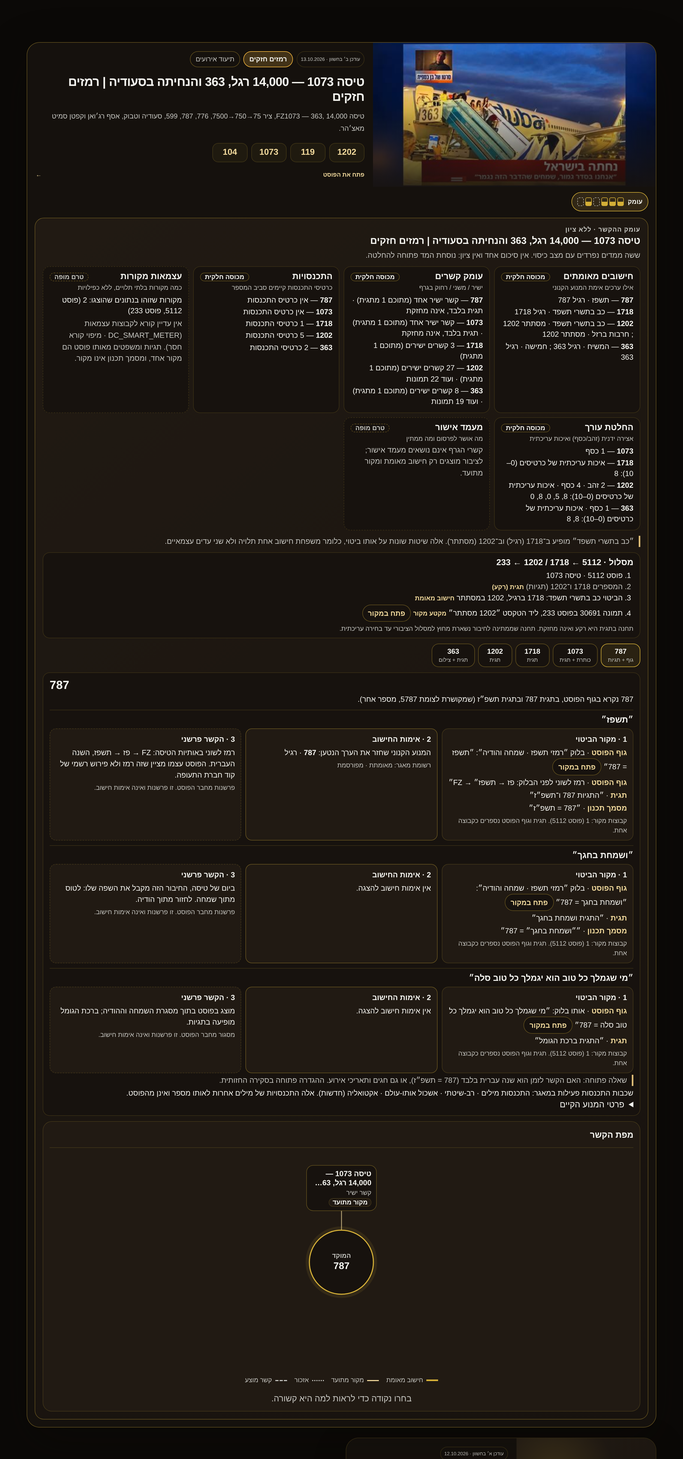
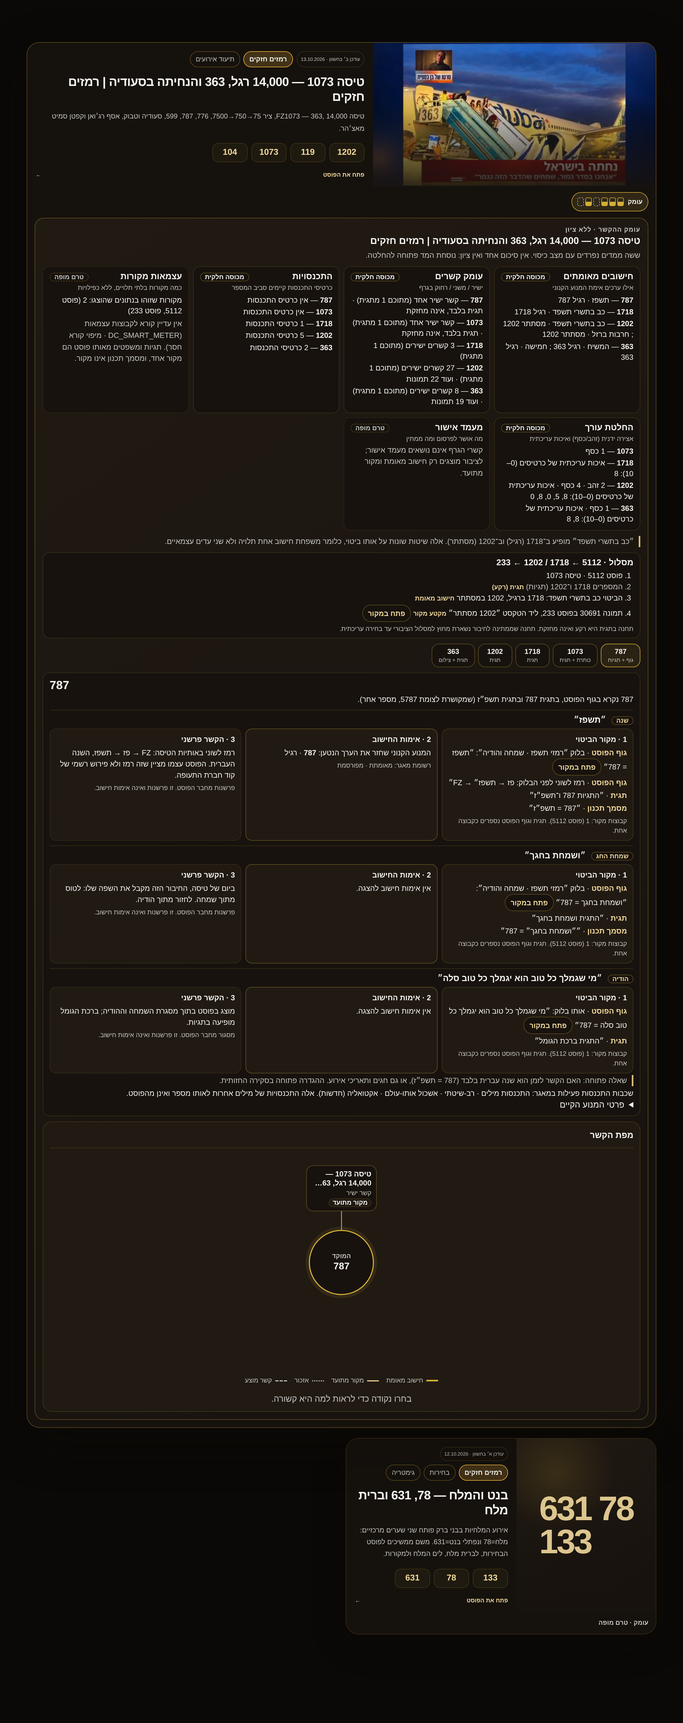
feat(context-depth): year hint from the existing approval owner, per reviewed unit
- Year hint (DEC-TIME-004) keyed by a reviewed UNIT (source_ref + container), not by a
  number, tag or WordPress structure; works the same for post regions, images, video
  and research units. timeFlow supplies the live Hebrew year; no new engine or reader.
- Approval is read from the existing research_objects owner (approved/canonical
  relation that relates to the container and names the unit's layers; published only
  when privacy_scope is public). The real row for 5112 is approved but public_candidate,
  so the public sees no marker; the admin preview shows it as approved-unpublished.
- 787 branch shows year, holiday joy and gratitude as three layers of one unit, with row
  attribution kept apart from publication; the marker is separate from the six strips.
- Rollover תשפ״ו→תשפ״ז→תשפ״ח moves the marker to a year group; sources and
  calculations are untouched. Opening a region puts its focus into the Research Context.

Claude-Session: https://claude.ai/code/session_01PjQC67fTYkRsbVSwpjWPZT

diff --git a/test/fixtures/context-map-harness/depthFixture.js b/test/fixtures/context-map-harness/depthFixture.js
@@ -1,3 +1,4 @@
+import { postLocatorSpec, yearHintOf } from "../../../src/lib/research/worldSourceConnections.js";
 // Evidence for post 5112, read read-only from canonical Supabase (linswmnnkjxvweumprav) on 19.10.2026:
 // - edges of the post node f42e2a16…: 28, all `documents` via post_tags (numbers 787, 1073, 1202, 1718, 363, …)
 // - convergence_meter(787|1073|1718|1202|363): layers, cards, tiers (existing function, formula untouched)
@@ -12,23 +13,23 @@ export const POST_5112 = { id: "5112", type: "post", label: "טיסה 1073 — 1
 export const NUMBERS_5112 = [
   { value: 787, source: { kind: "גוף + תגיות", note: "787 נקרא בגוף הפוסט, בתגית 787 ובתגית תשפ״ז (שמקושרת לצומת 5787, מספר אחר)." },
     expressions: [
-      { phrase: "תשפז",
-        sources: [{ kind: "post_body", ref: "post:5112", locator: "בלוק ״רמזי תשפז · שמחה והודיה״", quote: "תשפז = 787", locatorId: "plane-787-year-joy", href: "/post/flydubai-fz1073-363-14000-remzei-geula#source-locator-plane-787-year-joy" },
+      { phrase: "תשפז", theme: "year",
+        sources: [{ kind: "post_body", ref: "post:5112", locator: "בלוק ״רמזי תשפז · שמחה והודיה״", quote: "תשפז = 787", sourceRef: "posts:5112#block:plane-787-year-joy", locatorId: "plane-787-year-joy", href: "/post/flydubai-fz1073-363-14000-remzei-geula#source-locator-plane-787-year-joy" },
           { kind: "post_body", ref: "post:5112", locator: "רמז לשוני לפני הבלוק", quote: "FZ → פז → תשפז" },
           { kind: "tag", ref: "post:5112", quote: "התגיות 787 ו־תשפ״ז" },
           { kind: "plan_doc", ref: "docs/2029-eight-visual-review-handoff.md:447", quote: "787 = תשפ״ז" }],
-        calculation: { method: "רגיל", value: 787, claimedValue: 787, reproducesClaim: true, rowVerified: true, rowPublished: true },
+        calculation: { method: "רגיל", value: 787, claimedValue: 787, reproducesClaim: true, rowVerified: true, rowPublished: true, rowAttribution: "ZURIEL Human Gate · 2026-09-18" },
         interpretation: { text: "רמז לשוני באותיות הטיסה: FZ → פז → תשפז, השנה העברית. הפוסט עצמו מציין שזה רמז ולא פירוש רשמי של קוד חברת התעופה.", attestedBy: "פרשנות מחבר הפוסט" } },
-      { phrase: "ושמחת בחגך",
-        sources: [{ kind: "post_body", ref: "post:5112", locator: "בלוק ״רמזי תשפז · שמחה והודיה״", quote: "ושמחת בחגך = 787", locatorId: "plane-787-year-joy", href: "/post/flydubai-fz1073-363-14000-remzei-geula#source-locator-plane-787-year-joy" },
+      { phrase: "ושמחת בחגך", theme: "holiday",
+        sources: [{ kind: "post_body", ref: "post:5112", locator: "בלוק ״רמזי תשפז · שמחה והודיה״", quote: "ושמחת בחגך = 787", sourceRef: "posts:5112#block:plane-787-year-joy", locatorId: "plane-787-year-joy", href: "/post/flydubai-fz1073-363-14000-remzei-geula#source-locator-plane-787-year-joy" },
           { kind: "tag", ref: "post:5112", quote: "התגית ושמחת בחגך" },
           { kind: "plan_doc", ref: "docs/2029-eight-visual-review-handoff.md:447", quote: "״ושמחת בחגך״ = 787" }],
-        calculation: { method: "רגיל", value: 787, claimedValue: 787, reproducesClaim: true, rowVerified: true, rowPublished: false },
+        calculation: { method: "רגיל", value: 787, claimedValue: 787, reproducesClaim: true, rowVerified: true, rowPublished: false, rowAttribution: "contribution:אבני רונן" },
         interpretation: { text: "ביום של טיסה, החיבור הזה מקבל את השפה שלו: לטוס מתוך שמחה. לחזור מתוך הודיה.", attestedBy: "פרשנות מחבר הפוסט" } },
-      { phrase: "מי שגמלך כל טוב הוא יגמלך כל טוב סלה",
-        sources: [{ kind: "post_body", ref: "post:5112", locator: "אותו בלוק", quote: "מי שגמלך כל טוב הוא יגמלך כל טוב סלה = 787", locatorId: "plane-787-year-joy", href: "/post/flydubai-fz1073-363-14000-remzei-geula#source-locator-plane-787-year-joy" },
+      { phrase: "מי שגמלך כל טוב הוא יגמלך כל טוב סלה", theme: "gratitude",
+        sources: [{ kind: "post_body", ref: "post:5112", locator: "אותו בלוק", quote: "מי שגמלך כל טוב הוא יגמלך כל טוב סלה = 787", sourceRef: "posts:5112#block:plane-787-year-joy", locatorId: "plane-787-year-joy", href: "/post/flydubai-fz1073-363-14000-remzei-geula#source-locator-plane-787-year-joy" },
           { kind: "tag", ref: "post:5112", quote: "התגית ברכת הגומל" }],
-        calculation: { method: "רגיל", value: 787, claimedValue: 787, reproducesClaim: true, rowVerified: false, rowPublished: false },
+        calculation: { method: "רגיל", value: 787, claimedValue: 787, reproducesClaim: true, rowVerified: false, rowPublished: false, rowAttribution: "ZURIEL Human Gate · 2026-09-30" },
         interpretation: { text: "מוצג בפוסט בתוך מסגרת השמחה וההודיה; ברכת הגומל מופיעה בתגיות.", attestedBy: "מסגור מחבר הפוסט" } },
     ],
     openQuestions: [{ text: "האם הקשר לזמן הוא שנה עברית בלבד (787 = תשפ״ז), או גם חגים ותאריכי אירוע. ההגדרה פתוחה בסקירה החזותית.", ref: "docs/2029-eight-visual-review-handoff.md:430" }], graph: { direct: 1, tagDerived: 1, media: 0 }, calculations: [],
@@ -37,14 +38,14 @@ export const NUMBERS_5112 = [
     convergence: { layers: [L("ישות מסומנת", "1 כסף")], cards: [], tiers: { gold: 0, silver: 1 }, existingMeter: 11 } },
   { value: 1718, source: { kind: "תגית", note: "תגית בפוסט; הביטוי כב בתשרי תשפד נקרא בפוסט 233, ליד תמונה 30691." }, graph: { direct: 3, tagDerived: 1, media: 0 },
     expressions: [{ phrase: "כב בתשרי תשפד",
-      sources: [{ kind: "post_body", ref: "post:233", locator: "תמונה 30691 עם הטקסט ״1202 מסתתר״ שלפניה", quote: "כב בתשרי תשפד", locatorId: "kotel-233-date-image", href: HREF_233 },
+      sources: [{ kind: "post_body", ref: "post:233", locator: "תמונה 30691 עם הטקסט ״1202 מסתתר״ שלפניה", quote: "כב בתשרי תשפד", sourceRef: "posts:233#image:kotel-233-date-image", locatorId: "kotel-233-date-image", href: HREF_233 },
         { kind: "tag", ref: "post:5112", quote: "התגית 1718 בפוסט 5112" }],
       calculation: { method: "רגיל", value: 1718, claimedValue: 1718, reproducesClaim: true, rowVerified: true, rowPublished: true },
       interpretation: { text: "תאריך שמחת תורה, כ״ב בתשרי תשפ״ד, מוצג בפוסט 233 כחלק מרמזי המלחמה.", attestedBy: "פרשנות מחבר הפוסט" } }],
     convergence: { layers: [L("התכנסות מילים", "2 ישויות"), L("אקטואליה (חדשות)", "1"), L("כרטיס התכנסות", "קיים")], cards: [{ slug: "gapfill-718", title: "718 — שביעי באוקטובר", quality: 8 }], tiers: { gold: 0, silver: 0 }, existingMeter: 33 } },
   { value: 1202, source: { kind: "תגית", note: "תגית בפוסט; אותו ערך מתקבל מאותו ביטוי בשיטה אחרת (מסתתר)." }, graph: { direct: 27, tagDerived: 1, media: 22 },
     expressions: [
-      { phrase: "כב בתשרי תשפד", sources: [{ kind: "post_body", ref: "post:233", locator: "הטקסט ״1202 מסתתר״ ליד תמונה 30691", quote: "1202 מסתתר", locatorId: "kotel-233-date-image", href: HREF_233 }],
+      { phrase: "כב בתשרי תשפד", sources: [{ kind: "post_body", ref: "post:233", locator: "הטקסט ״1202 מסתתר״ ליד תמונה 30691", quote: "1202 מסתתר", sourceRef: "posts:233#image:kotel-233-date-image", locatorId: "kotel-233-date-image", href: HREF_233 }],
         calculation: { method: "מסתתר", value: 1202, claimedValue: 1202, reproducesClaim: true, rowVerified: true, rowPublished: true },
         interpretation: { text: "אותו ביטוי כמו ב־1718, בשיטה אחרת.", attestedBy: "פרשנות מחבר הפוסט" } },
       { phrase: "חרבות ברזל", sources: [{ kind: "post_link", ref: "post:233", quote: "הביטוי מקושר לפוסט 233 במאגר" }],
@@ -87,13 +88,18 @@ export const ENGINE_BY_LABEL = { "כב בתשרי תשפד": { value: 1718, meth
 
 // Year hint (DEC-TIME-004), reviewed locator and route for the 5112 → 1718 / 1202 → 233 branch. `editorialSelection: null`
 // = the editor has not selected the connection yet, so the public sees no year badge and no pending station.
-export const YEAR_HINTS_5112 = [{ id: "plane-787-year-joy", value: 787, hebrewYear: 5787, yearLabel: "תשפ״ז", expression: "תשפז",
-  link: "explicit_documented", editorialSelection: null, locatorId: "plane-787-year-joy" }];
+export const YEAR_HINTS_5112 = [yearHintOf(postLocatorSpec("plane-787-year-joy"))];
+// The existing approval owner (research_objects): the REAL approved relation naming the 787 axis of תשפ״ז / ושמחת בחגך /
+// the gomel answer (id db28c232…, read 20.10.2026). Only the fields the matcher needs; its privacy_scope is public_candidate,
+// i.e. editorially approved and NOT published. No free text or author of the record is copied here.
+export const APPROVAL_ROW_5112 = { id: "db28c232-c35c-4aa6-84a8-a37cce875c2c", kind: "relation", status: "approved", privacy_scope: "public_candidate",
+  relates: ["research_object:c00fc2e0-4f87-4285-b6af-b9174c1d0b0a", "research_object:a94e47c3-0ca1-43c0-96f4-fbc2ddfe1189", "post:5112", "code:7500"],
+  terms: ["75", "750", "7500", "776", "787", "599", "בטחון", "ביאת המשיח", "תשפ\"ז", "ושמחת בחגך", "אלופו של עולם", "אסתר"] };
 export const PATHS_5112 = [{ id: "5112-1718-233", label: "5112 ← 1718 / 1202 ← 233", stations: [
   { kind: "post", label: "פוסט 5112 · טיסה 1073" },
   { kind: "number", label: "המספרים 1718 ו־1202 (תגיות)", basis: "tag" },
   { kind: "expression", label: "הביטוי כב בתשרי תשפד: 1718 ברגיל, 1202 במסתתר", basis: "verified_calculation" },
-  { kind: "source_region", label: "תמונה 30691 בפוסט 233, ליד הטקסט ״1202 מסתתר״", basis: "source_region", locatorId: "kotel-233-date-image", href: HREF_233 },
+  { kind: "source_region", label: "תמונה 30691 בפוסט 233, ליד הטקסט ״1202 מסתתר״", basis: "source_region", sourceRef: "posts:233#image:kotel-233-date-image", locatorId: "kotel-233-date-image", href: HREF_233 },
   { kind: "post", label: "פוסט 233 (אזכור אוטומטי של 1718)", basis: "suggested", pending: true, editorialSelection: null },
 ] }];
 

diff --git a/src/lib/research/contextDepthProjection2029.js b/src/lib/research/contextDepthProjection2029.js
@@ -77,6 +77,7 @@ export function buildExpressionLayers(expr, { audience = "public" } = {}) {
   const withheld = audience !== "admin" && Boolean(calc) && calc.rowPublished !== true;
   return {
     phrase: expr?.phrase ?? null,
+    theme: expr?.theme ?? null,
     withheld,
     source: { items: sources, groups: sourceGroups(sources) },
     calculation: withheld ? null : calc && {
@@ -84,6 +85,8 @@ export function buildExpressionLayers(expr, { audience = "public" } = {}) {
       claimedValue: Number.isFinite(calc.claimedValue) ? calc.claimedValue : null,
       reproducesClaim: calc.reproducesClaim === true ? true : calc.reproducesClaim === false ? false : null,
       rowVerified: calc.rowVerified ?? null, rowPublished: calc.rowPublished ?? null,
+      // Attribution of the database row is its own fact (neither calculation nor publication) and is admin-only.
+      rowAttribution: audience === "admin" ? calc.rowAttribution ?? null : null,
     },
     interpretation: expr?.interpretation || null,
   };
@@ -97,7 +100,7 @@ export function buildExpressionLayers(expr, { audience = "public" } = {}) {
  *   convergence:ReturnType<typeof convergenceMeterFacts>|null}>} input.numbers
  * @param {"public"|"admin"} [input.audience]
  */
-export function buildContextDepth({ subject, numbers = [], audience = "public", temporal = null, yearHints = [], paths = [] } = {}) {
+export function buildContextDepth({ subject, numbers = [], audience = "public", temporal = null, yearHints = [], approvals = {}, paths = [] } = {}) {
   if (!subject?.id || !numbers.length) return null;
   const rows = numbers.map((n) => {
     const expressions = (n.expressions || []).map((e) => buildExpressionLayers(e, { audience }));
@@ -153,31 +156,37 @@ export function buildContextDepth({ subject, numbers = [], audience = "public", 
   };
 
   return {
-    subject, audience, numbers: rows, dependencies, yearHints: buildYearHints(yearHints, temporal, audience), paths: buildPaths(paths, audience), sourceCount: { groups, statements: allSources.length },
+    subject, audience, numbers: rows, dependencies, yearHints: buildYearHints(yearHints, temporal, audience, approvals), paths: buildPaths(paths, audience), sourceCount: { groups, statements: allSources.length },
     dimensions: DIMENSIONS.map((d) => ({ ...d, ...dims[d.key], coverageLabel: COVERAGE_LABEL[dims[d.key].coverage] })),
   };
 }
 
 /**
- * "Year hint" (DEC-TIME-004) over the existing time context (`timeFlow.getCurrentTemporalContext`), never a new engine.
- * Numeric equality alone is not enough: the link must be explicit and documented AND selected by the editor. The
- * value (787, gematria of the year letters) and the calendar year (5787) stay two separate labelled numbers.
- * Nothing is stored or deleted: the same hint shows as the year hint this year and as a year group afterwards.
+ * "Year hint" (DEC-TIME-004) over the existing time context (`timeFlow.getCurrentTemporalContext`), never a new engine and
+ * never a numeric-equality test. A hint belongs to a reviewed UNIT (a source region of a container), carries its own year
+ * binding, and needs an explicit documented link plus an editorial approval read from the existing research_objects owner
+ * (`approvals[hint.id]`, see unitApproval2029). The value (787, gematria of the year letters) and the calendar year (5787)
+ * stay two separately labelled numbers. Nothing is stored or deleted: the same hint is the live year hint this year and a
+ * year group afterwards, with its source and calculation untouched.
+ *   public : only a PUBLISHED approval shows (live this year, "year group" afterwards)
+ *   admin  : also approved-but-unpublished and candidate, each with its own state
  */
-export function buildYearHints(hints = [], temporal = null, audience = "public") {
+export function buildYearHints(hints = [], temporal = null, audience = "public", approvals = {}) {
   const hebrew = temporal?.hebrew;
   if (!hebrew?.year || !hebrew?.year_value) return [];
   const admin = audience === "admin";
   return hints.flatMap((hint) => {
-    if (hint?.link !== "explicit_documented") return [];
-    const selected = hint.editorialSelection === true;
-    const base = { id: hint.id, value: hint.value, hebrewYear: hint.hebrewYear, valueLabel: `ערך גימטרי ${hint.value}`,
-      yearLabel: `שנה ${hint.hebrewYear} (${hint.yearLabel})`, locatorId: hint.locatorId ?? null };
+    if (hint?.link !== "explicit_documented" || !hint.unit) return [];
+    const approval = approvals?.[hint.id]?.state || "none";
+    const published = approval === "published";
+    if (!published && !admin) return [];
+    const base = { id: hint.id, unit: hint.unit, value: hint.value, hebrewYear: hint.hebrewYear, valueLabel: `ערך גימטרי ${hint.value}`,
+      yearLabel: `שנה ${hint.hebrewYear} (${hint.yearLabel})`, layers: hint.layers || [], approval, locatorId: hint.unit.locatorId ?? null };
     const current = hebrew.year === hint.hebrewYear && hebrew.year_value === hint.value;
-    if (current && selected) return [{ ...base, state: "active", label: `רמז השנה · ${hebrew.year_label}` }];
-    if (current) return admin ? [{ ...base, state: "candidate", label: "מועמד לרמז השנה · ממתין לבחירה עריכתית" }] : [];
-    if (!selected && !admin) return [];
-    return [{ ...base, state: hebrew.year > hint.hebrewYear ? "archived" : "upcoming", label: `קבוצת שנה · ${hint.yearLabel}` }];
+    if (!current) return [{ ...base, state: hebrew.year > hint.hebrewYear ? "archived" : "upcoming", label: `קבוצת שנה · ${hint.yearLabel}` }];
+    if (published) return [{ ...base, state: "active", label: `רמז השנה · ${hebrew.year_label}` }];
+    if (approval === "approved_unpublished") return [{ ...base, state: "approved_unpublished", label: `רמז השנה · ${hebrew.year_label} · מאושר עריכתית, טרם פורסם` }];
+    return [{ ...base, state: "candidate", label: "מועמד לרמז השנה · ללא אישור קנוני שניתן לאמת" }];
   });
 }
 

diff --git a/src/components/experience2029/ContextDepthMeter2029.jsx b/src/components/experience2029/ContextDepthMeter2029.jsx
@@ -23,14 +23,24 @@ function factLine(dim) {
   return null;
 }
 
+const THEME_LABEL = Object.freeze({ year: "שנה", holiday: "שמחת החג", gratitude: "הודיה" });
+const HINT_NOTE = Object.freeze({
+  active: "סימון זמני לשנה הנוכחית בלבד. הרמז, המקור והחישוב נשמרים.",
+  approved_unpublished: "קיים אישור עריכתי לקישור, אך הוא טרם פורסם: הציבור אינו רואה את הסימון.",
+  candidate: "לא נמצא אישור קנוני שניתן לאמת: מוצג בתצוגת מנהל בלבד.",
+  archived: "השנה התחלפה: הסימון אינו מוצג כעכשווי. הרמז, המקור והחישוב נשמרים בקבוצת השנה.",
+  upcoming: "השנה טרם הגיעה: הסימון אינו מוצג כעכשווי.",
+});
 function YearHint({ hint, compact = false }) {
-  const live = hint.state === "active" || hint.state === "candidate";
-  return <span className="sod29-year-hint" data-state={hint.state} data-year-hint={hint.id}>
+  return <span className="sod29-year-hint" data-state={hint.state} data-year-hint={hint.id} data-unit-kind={hint.unit?.kind}>
     <svg viewBox="0 0 20 20" width="14" height="14" fill="none" stroke="currentColor" strokeWidth="1.7" strokeLinecap="round" aria-hidden="true">
       <rect x="3" y="4.5" width="14" height="12" rx="2" /><path d="M3 8.5h14M7 3v3M13 3v3" /></svg>
     <b>{hint.label}</b>
-    {compact ? null : <small>{hint.valueLabel} · {hint.yearLabel}</small>}
-    {!compact && !live ? <small>הרמז, המקור והחישוב נשמרים; הסימון אינו מוצג כעכשווי.</small> : null}
+    {compact ? null : <>
+      <small>{hint.valueLabel} · {hint.yearLabel}</small>
+      {hint.layers?.length ? <span className="sod29-year-hint-layers">{hint.layers.map((l) => <i key={l.key} data-layer={l.key}>{l.label}</i>)}</span> : null}
+      <small>{HINT_NOTE[hint.state]}</small>
+    </>}
   </span>;
 }
 
@@ -38,7 +48,7 @@ function YearHint({ hint, compact = false }) {
 function ExpressionLayers({ expr, onOpenLocator, value }) {
   const c = expr.calculation;
   return <article className="sod29-depth-expr" data-expression={expr.phrase}>
-    <h5 dir="auto">״{expr.phrase}״</h5>
+    <h5 dir="auto">{expr.theme ? <i className="sod29-depth-theme" data-theme={expr.theme}>{THEME_LABEL[expr.theme]}</i> : null} ״{expr.phrase}״</h5>
     <ol className="sod29-depth-layers">
       <li data-layer="source">
         <b>1 · מקור הביטוי</b>
@@ -51,6 +61,7 @@ function ExpressionLayers({ expr, onOpenLocator, value }) {
         {c ? <>
           <p>{flagLabel(c.reproducesClaim, "המנוע הקנוני שחזר את הערך הנטען", "המנוע לא שחזר את הערך הנטען")}: <b dir="ltr">{measured(c.value)}</b> · {c.method}</p>
           <small>רשומת מאגר: {flagLabel(c.rowVerified, "מאומתת", "לא מאומתת")} · {flagLabel(c.rowPublished, "מפורסמת", "לא מפורסמת")}</small>
+          {c.rowAttribution ? <small>ייחוס הרשומה (נפרד מהפרסום): {c.rowAttribution}</small> : null}
         </> : <p>{expr.withheld ? "אין אימות חישוב להצגה." : NOT_MEASURED}</p>}
       </li>
       <li data-layer="interpretation">
@@ -83,7 +94,7 @@ export default function ContextDepthMeter2029({ depth, variant = "full", expande
   const id = panelId || autoId;
   if (!depth) return null;
   const summary = depth.dimensions.map((d) => `${d.label}: ${d.coverageLabel}`).join(", ");
-  const shownHints = depth.yearHints.filter((h) => h.state === "active" || h.state === "candidate");
+  const shownHints = depth.yearHints.filter((h) => ["active", "approved_unpublished", "candidate"].includes(h.state));
   if (variant === "compact") {
     return <span className="sod29-depth-compact-wrap">
       <button type="button" className="sod29-depth-compact" aria-expanded={expanded} aria-controls={id}

diff --git a/src/lib/research/unitApproval2029.js b/src/lib/research/unitApproval2029.js
@@ -1,0 +1,45 @@
+// Editorial approval of a reviewed unit's year link, read from the EXISTING research_objects owner.
+// An approval is a research_object of kind `relation`, status approved/canonical, that relates to the unit's container
+// (`post:5112`, later `video:…`, `gallery_image:…`, a research unit) AND names the unit's layers in its terms. Numeric
+// equality is not enough. Publication is the existing rule: only privacy_scope === 'public' is published; a
+// `public_candidate` approval is an editorial approval that is NOT yet visible to the public. Private / family rows are
+// ignored altogether. Nothing from the row (its text, terms or author) leaves this module: only a state and an id.
+import { isPublishedScope } from "./researchViewMode.js";
+import { guardKey } from "./topicSourceContext.js";
+import { supabase } from "../supabase.js";
+
+export const APPROVAL = Object.freeze({ NONE: "none", APPROVED_UNPUBLISHED: "approved_unpublished", PUBLISHED: "published" });
+const APPROVED_STATUS = new Set(["approved", "canonical"]);
+
+export function matchUnitApproval(rows, hint) {
+  const containerRef = hint?.unit?.containerRef;
+  const terms = (hint?.approvalTerms || []).map(guardKey);
+  if (!containerRef || !terms.length) return { state: APPROVAL.NONE, rowId: null };
+  let found = null;
+  for (const row of Array.isArray(rows) ? rows : []) {
+    if (row?.kind !== "relation" || !APPROVED_STATUS.has(row.status)) continue;
+    if (!Array.isArray(row.relates) || !row.relates.includes(containerRef)) continue;
+    const have = new Set((Array.isArray(row.terms) ? row.terms : []).map(guardKey));
+    if (!terms.every((t) => have.has(t))) continue;
+    if (isPublishedScope(row.privacy_scope)) return { state: APPROVAL.PUBLISHED, rowId: String(row.id) };
+    if (row.privacy_scope === "public_candidate" && !found) found = { state: APPROVAL.APPROVED_UNPUBLISHED, rowId: String(row.id) };
+  }
+  return found || { state: APPROVAL.NONE, rowId: null };
+}
+
+/** Bounded read through the session's own RLS (admin only sees unpublished candidates); any error fails closed to no approval. */
+export async function fetchUnitApprovalRows(containerRef, { client = supabase } = {}) {
+  if (!containerRef) return [];
+  try {
+    const { data, error } = await client.from("research_objects").select("id,kind,status,privacy_scope,relates,terms")
+      .contains("relates", [containerRef]).eq("kind", "relation").in("status", [...APPROVED_STATUS])
+      .in("privacy_scope", ["public", "public_candidate"]).limit(40);
+    return error ? [] : data || [];
+  } catch { return []; }
+}
+
+export async function resolveUnitApprovals(hints, options) {
+  const out = {};
+  for (const hint of hints) out[hint.id] = matchUnitApproval(await fetchUnitApprovalRows(hint.unit?.containerRef, options), hint);
+  return out;
+}

diff --git a/src/lib/research/worldSourceConnections.js b/src/lib/research/worldSourceConnections.js
@@ -278,12 +278,22 @@ export const REVIEWED_POST_LOCATORS = Object.freeze([
     title: '787 · תשפ״ז, שמחת החג וההודיה',
     postBlock: { startGuard: 'רמזי תשפ״ז · שמחה והודיה', endGuard: 'לחזור מתוך הודיה', maxBlocks: 8 },
     guards: ['תשפ״ז = 787', 'ושמחת בחגך = 787', 'מי שגמלך כל טוב הוא יגמלך כל טוב סלה = 787'],
-    yearHint: { hebrewYear: 5787, value: 787, expression: 'תשפז', link: 'explicit_documented', editorialSelection: null } },
+    // Year hint (DEC-TIME-004) for this reviewed unit. Generic on purpose: the unit is a source region of a container
+    // (`post:5112` today; an image, video or research unit tomorrow), so nothing depends on WordPress structure.
+    // Approval is NOT stored here: it is read from the existing research_objects owner (see unitApproval2029).
+    yearHint: { unit: { kind: 'source_region', containerRef: 'post:5112' }, link: 'explicit_documented',
+      binding: { hebrewYear: 5787, yearLabel: 'תשפ״ז', value: 787, expression: 'תשפז' },
+      layers: [{ key: 'year', label: 'שנה', expression: 'תשפז' }, { key: 'holiday', label: 'שמחת החג', expression: 'ושמחת בחגך' },
+        { key: 'gratitude', label: 'הודיה', expression: 'מי שגמלך כל טוב הוא יגמלך כל טוב סלה' }],
+      approvalTerms: ['787', 'תשפ"ז', 'ושמחת בחגך'] } },
   { id: 'kotel-233-date-image', postId: 233, relationKind: 'author_comparison', attachmentId: 30691,
     title: 'כב בתשרי תשפד · התמונה והטקסט 1202 מסתתר',
     postImageUrl: 'https://linswmnnkjxvweumprav.supabase.co/storage/v1/object/public/media/uploads/2023/10/90ccb82734b67b81.jpg',
     imageNear: { guards: ['1202 מסתתר'], radius: 2 }, guards: ['1202 מסתתר'] },
 ]);
+// Year-hint descriptor of a reviewed unit, keyed by the unit's source_ref (never by a number or a WordPress id).
+export const yearHintOf = (spec) => spec?.yearHint ? { id: spec.id, link: spec.yearHint.link, unit: { ...spec.yearHint.unit, sourceRef: `posts:${spec.postId}#block:${spec.id}`, locatorId: spec.id },
+  ...spec.yearHint.binding, layers: spec.yearHint.layers, approvalTerms: spec.yearHint.approvalTerms } : null;
 export const postLocatorSpec = (id) => REVIEWED_POST_LOCATORS.find((spec) => spec.id === id) || null;
 // Rendered-DOM form of a reviewed spec (same guards the HTML locator uses).
 export const renderedLocatorOf = (spec) => spec.postBlock

diff --git a/test/fixtures/context-map-harness/depth-main.jsx b/test/fixtures/context-map-harness/depth-main.jsx
@@ -13,7 +13,8 @@ import { cardReturnTo, cardRestoreFor } from "../../../src/lib/research/journeyS
 import { buildExactReturnPatch } from "../../../src/lib/research/researchContext.js";
 import { getCurrentTemporalContext } from "../../../src/lib/timeFlow.js";
 import { DESIGN_V2_PALETTES } from "../../../src/lib/palette.js";
-import { POST_5112, NUMBERS_5112, POST_ROW_5112, POST_ROW_5113, GRAPH_BY_NUMBER, NODE_BY_NUMBER, ENGINE_BY_LABEL, YEAR_HINTS_5112, PATHS_5112 } from "./depthFixture.js";
+import { matchUnitApproval } from "../../../src/lib/research/unitApproval2029.js";
+import { POST_5112, NUMBERS_5112, POST_ROW_5112, POST_ROW_5113, GRAPH_BY_NUMBER, NODE_BY_NUMBER, ENGINE_BY_LABEL, YEAR_HINTS_5112, PATHS_5112, APPROVAL_ROW_5112 } from "./depthFixture.js";
 import fixture from "../post-locators-5112-233.json";
 import "../../../src/pages/posts2029.css";
 import "../../../src/pages/post2029-reading.css";
@@ -28,9 +29,12 @@ const vars = { "--s29-page": p.pageBg, "--s29-panel": p.card, "--s29-panel-soft"
   "--s29-type-micro": "12px", "--s29-type-small": "14px", "--s29-type-ui": "15px", "--s29-type-body": "16px", "--s29-type-lead": "18px", "--s29-motion": "160ms" };
 
 const NOW = getCurrentTemporalContext(new Date(q.get("date") || "2026-10-20T12:00:00+03:00"));
-const hints = q.get("selected") === "1" ? YEAR_HINTS_5112.map((h) => ({ ...h, editorialSelection: true })) : YEAR_HINTS_5112;
 const paths = q.get("selected") === "1" ? PATHS_5112.map((x) => ({ ...x, stations: x.stations.map((s) => (s.pending ? { ...s, editorialSelection: true } : s)) })) : PATHS_5112;
-const depth = buildContextDepth({ subject: POST_5112, numbers: NUMBERS_5112, audience, temporal: NOW, yearHints: hints, paths });
+// approval=real (default): the real research_object, editorially approved and NOT published. published = the same row with
+// scope "public" (a SIMULATION of publication, used only to show the live marker); none = no approval row at all.
+const approvalRows = { real: [APPROVAL_ROW_5112], published: [{ ...APPROVAL_ROW_5112, privacy_scope: "public" }], none: [] }[q.get("approval") || "real"];
+const approvals = Object.fromEntries(YEAR_HINTS_5112.map((h) => [h.id, matchUnitApproval(approvalRows, h)]));
+const depth = buildContextDepth({ subject: POST_5112, numbers: NUMBERS_5112, audience, temporal: NOW, yearHints: YEAR_HINTS_5112, approvals, paths });
 const byId = Object.fromEntries(Object.values(NODE_BY_NUMBER).map((n) => [n.id, n]));
 const strip = (l) => l.replace(/[״"]/g, "");
 const mapReaders = {

diff --git a/src/pages/Posts2029Page.jsx b/src/pages/Posts2029Page.jsx
@@ -2,7 +2,7 @@ import React, { useEffect, useState } from "react";
 import { useNavigate, useSearchParams } from "react-router-dom";
 import { useResearch } from "../lib/research/ResearchProvider.jsx";
 import { contextMapReaders } from "../lib/research/contextMapReaders2029.js";
-import { cardReturnTo, cardRestoreFor } from "../lib/research/journeySourceReturn.js";
+import { cardReturnTo, cardRestoreFor, sourceRegionFocus } from "../lib/research/journeySourceReturn.js";
 import Sod2029Shell, { FrameState } from "../components/experience2029/Sod2029Shell.jsx";
 import { getPostsFromSupabase } from "../lib/supabase.js";
 import { applySeo } from "../lib/seo.js";
@@ -42,16 +42,19 @@ export default function Posts2029Page() {
   }, [page]);
 
   // Exact return: leaving a card's context map writes this list position as returnTo in the existing Context.
-  const leaveCard = (post, target, number) => {
+  const leaveCard = (post, target, number, dimensions = undefined) => {
     research.updateResearchContext?.({
       subject: { id: target.id ?? String(post.id), type: target.type ?? "post", label: target.label, href: target.href },
+      ...(dimensions ? { dimensions } : {}),
       returnTo: cardReturnTo({ post, number, listHref: `${window.location.pathname}${window.location.search}` }),
     });
     navigate(target.href);
   };
   const openFromContextMap = (post, item) => { if (item?.href) leaveCard(post, item, item.type === "number" ? Number(item.label) : null); };
   // A reviewed source region (the 787 block, image 30691): the target opens the post and lands on the region.
-  const openSourceRegion = (post, source, number) => { if (source?.href) leaveCard(post, { id: source.locatorId, type: "source", label: source.quote || source.label, href: source.href }, number); };
+  const openSourceRegion = (post, source, number, hintLabel = null) => {
+    if (source?.href) leaveCard(post, { id: source.locatorId, type: "source", label: source.quote || source.label, href: source.href }, number, sourceRegionFocus({ source, hintLabel }));
+  };
   // Returning to a card lands on it (hash from the exact-return snapshot).
   useEffect(() => {
     const id = window.location.hash.match(/^#(post-card-\d+)$/)?.[1];

diff --git a/src/components/experience2029/PostIndexCard2029.jsx b/src/components/experience2029/PostIndexCard2029.jsx
@@ -77,7 +77,8 @@ export default function PostIndexCard({ post, index, depth = null, mapReaders = 
       <ContextDepthMeter2029 depth={depth} variant="compact" expanded={open} onToggle={() => setOpen((value) => !value)} panelId={panelId} />
     </div> : null}
     {depth && open ? <div className="sod29-post-index-depth-panel" id={panelId}>
-      <ContextDepthMeter2029 depth={depth} variant="full" selectedValue={picked} onSelectValue={setPicked} onOpenLocator={(source, number) => onLocatorOpen?.(post, source, number ?? picked)}>
+      <ContextDepthMeter2029 depth={depth} variant="full" selectedValue={picked} onSelectValue={setPicked} onOpenLocator={(source, number) => onLocatorOpen?.(post, source, number ?? picked,
+          depth.yearHints.find((h) => h.locatorId === source.locatorId && ["active", "approved_unpublished"].includes(h.state))?.label || null)}>
         {picked != null && mapReaders ? <Suspense fallback={<p role="status">פותח את מפת ההקשר…</p>}>
           <ContextMapPanel2029 key={picked} defaultOpen focus={{ type: "number", id: String(picked), label: String(picked) }}
             audience={depth.audience} readers={mapReaders} onOpen={(item) => onMapOpen?.(post, item)} />

diff --git a/src/components/experience2029/contextDepthMeter2029.css b/src/components/experience2029/contextDepthMeter2029.css
@@ -61,3 +61,7 @@
 .sod29-depth-path em{font-style:normal;font-weight:800;color:var(--s29-accent-text);font-size:var(--s29-type-micro)}
 .sod29-depth-path small{color:var(--s29-muted);font-size:var(--s29-type-micro)}
 .sod-depth-unmapped,.sod29-depth-unmapped{color:var(--s29-muted);font-size:var(--s29-type-micro);font-weight:800}
+.sod29-year-hint[data-state="approved_unpublished"]{border-style:dashed;border-color:var(--s29-accent);color:var(--s29-accent-text)}
+.sod29-year-hint-layers{display:inline-flex;flex-wrap:wrap;gap:4px}
+.sod29-year-hint-layers i,.sod29-depth-theme{font-style:normal;border:1px solid var(--s29-line-strong);border-radius:999px;padding:0 8px;font-size:var(--s29-type-micro);font-weight:800;color:var(--s29-accent-text)}
+.sod29-depth-expr h5 .sod29-depth-theme{margin-inline-end:6px}

diff --git a/src/lib/research/journeySourceReturn.js b/src/lib/research/journeySourceReturn.js
@@ -86,3 +86,10 @@ export function cardRestoreFor(context, postId) {
   const number = selection.entityType === "number" ? Number(selection.entityId) : null;
   return { number: Number.isSafeInteger(number) ? number : null };
 }
+
+// The focus a reviewed source region carries into the existing Research Context when it is opened from a card.
+// The year-hint label travels as a label only (display lens, not a selection and not an approval).
+export function sourceRegionFocus({ source, hintLabel = null }) {
+  return { surfaceFocus: { id: source.locatorId, type: "source", label: source.quote || source.label || source.locatorId, reference: source.sourceRef || null,
+    locator: `#source-locator-${source.locatorId}`, href: source.href, sourceLabel: hintLabel || undefined } };
+}
